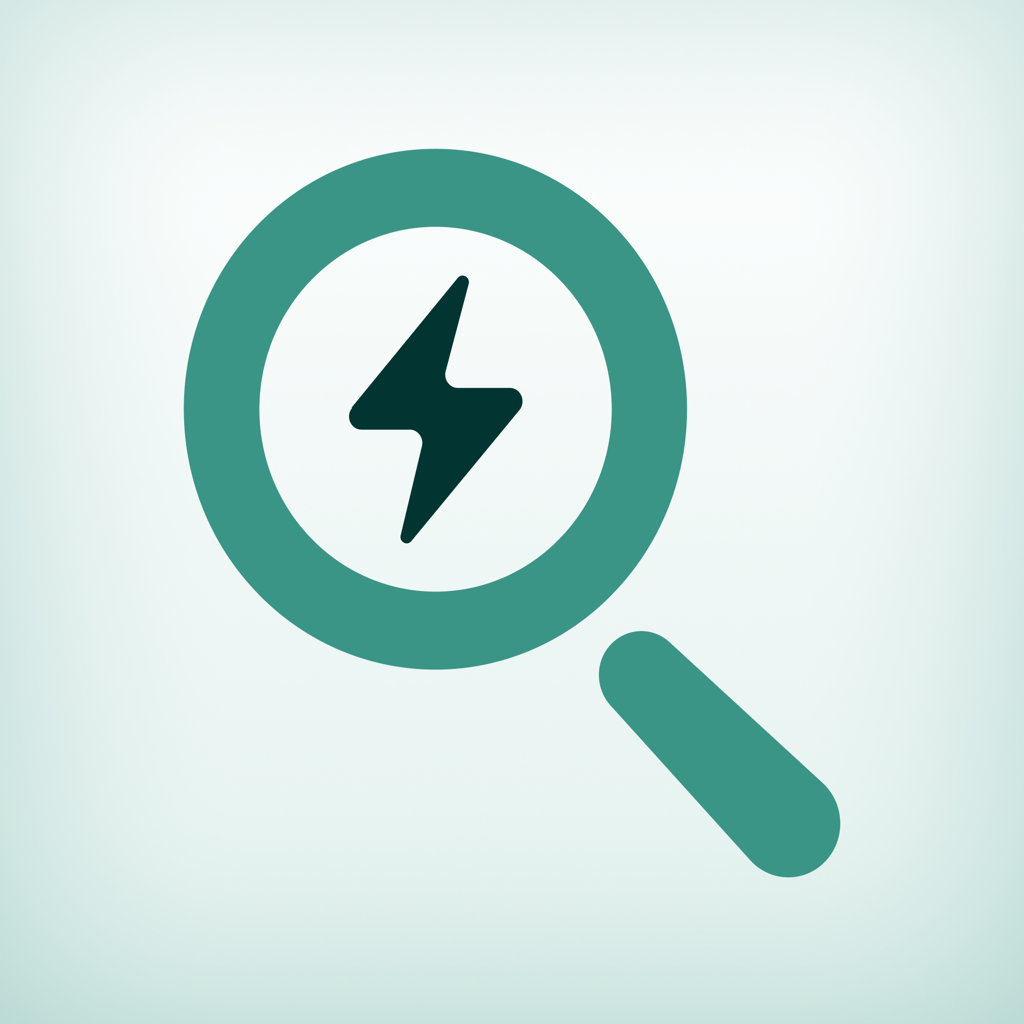
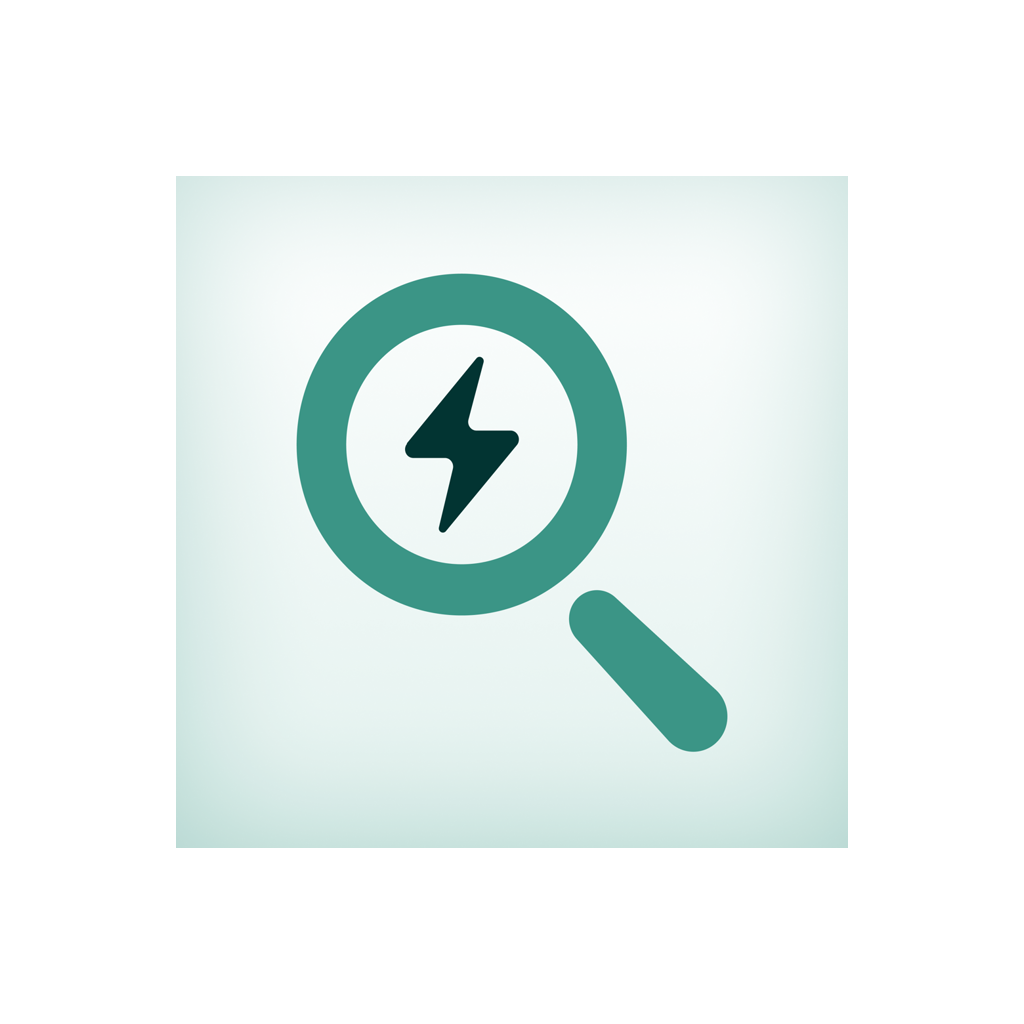
fix(android): three Android-only polish issues
1) Transition shadow border
   The Stack used animation: 'fade'. On Android the cross-fade left
   both screens visibly elevated for a moment, so the leaving fragment's
   drop shadow leaked through and looked like a border on the panel.
   Switched to 'fade_from_bottom' with a 220ms duration — subtle slide
   that avoids the cross-fade flash and feels native on both platforms.
   Also set navigationBarColor so the system bar matches the bg.

2) Adaptive icon oversized on Android home screen
   adaptive-icon.png had the logo full-bleed at 1024x1024. Android's
   adaptive-icon spec calls for ~33% safe-zone padding so the launcher
   can crop the foreground for different mask shapes. Without padding,
   most launchers zoomed it and the logo looked huge. Foreground is
   now scaled to 672x672 centred on a 1024x1024 transparent canvas.

3) Splash logo too tiny on Android
   Switched from the legacy splash config (a 1284x2778 phone-shaped
   image with 'cover' resize mode) to the modern expo-splash-screen
   plugin with imageWidth: 200. New asset paths:
     • assets/images/splash-icon.png         (default + iOS)
     • assets/images/splash-icon-android.png (Android-specific override)
   Both placeholder copies of the app icon for now — replace with
   logo-only PNGs to taste.

diff --git a/app/_layout.tsx b/app/_layout.tsx
@@ -299,7 +299,21 @@ function RootLayoutInner() {
       <StatusBar style="dark" />
       <View style={{ flex: 1, backgroundColor: '#e2f1ee' }}>
         <Animated.View style={{ flex: 1, opacity: contentOpacity }}>
-          <Stack screenOptions={{ headerShown: false, animation: 'fade', contentStyle: { flex: 1, padding: 0, margin: 0, backgroundColor: '#e2f1ee' } }}>
+          <Stack
+            screenOptions={{
+              headerShown: false,
+              // Subtle slide-up + fade. Pure 'fade' on Android cross-fades
+              // two screens that both retain native fragment elevation —
+              // the leaving screen's shadow leaks through and creates a
+              // visible border around the panel during transition. The
+              // 'fade_from_bottom' variant slides slightly which avoids
+              // the cross-fade flash, and feels native on both platforms.
+              animation: 'fade_from_bottom',
+              animationDuration: 220,
+              navigationBarColor: '#e2f1ee',
+              contentStyle: { flex: 1, padding: 0, margin: 0, backgroundColor: '#e2f1ee' },
+            }}
+          >
             <Stack.Screen name="(auth)" />
             <Stack.Screen name="(tabs)" />
             <Stack.Screen name="onboarding" />
